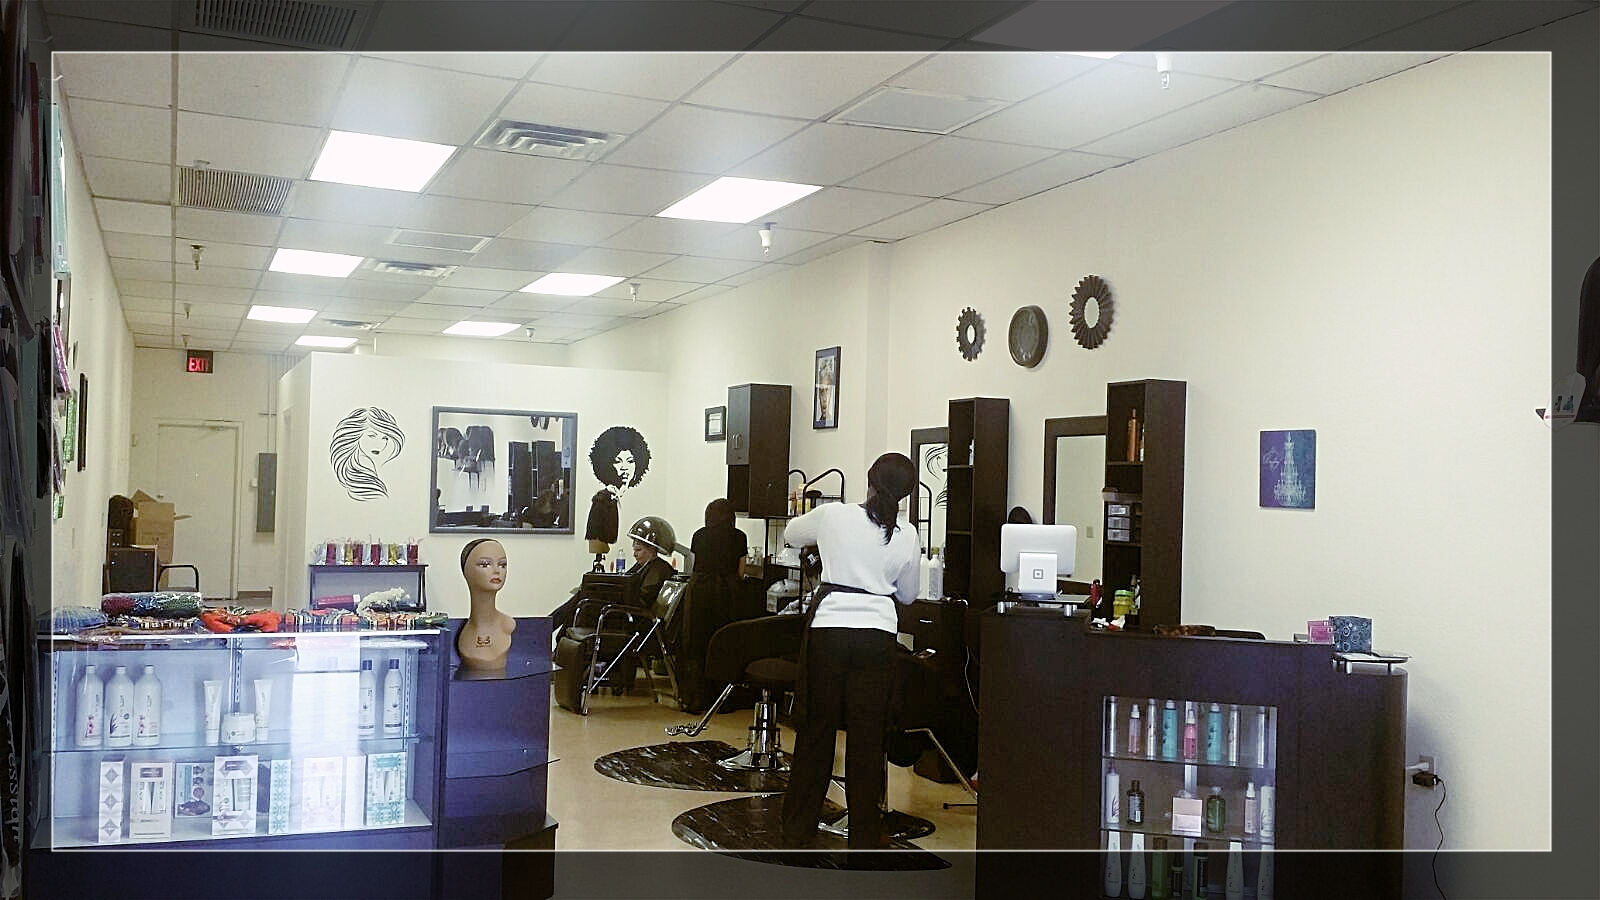
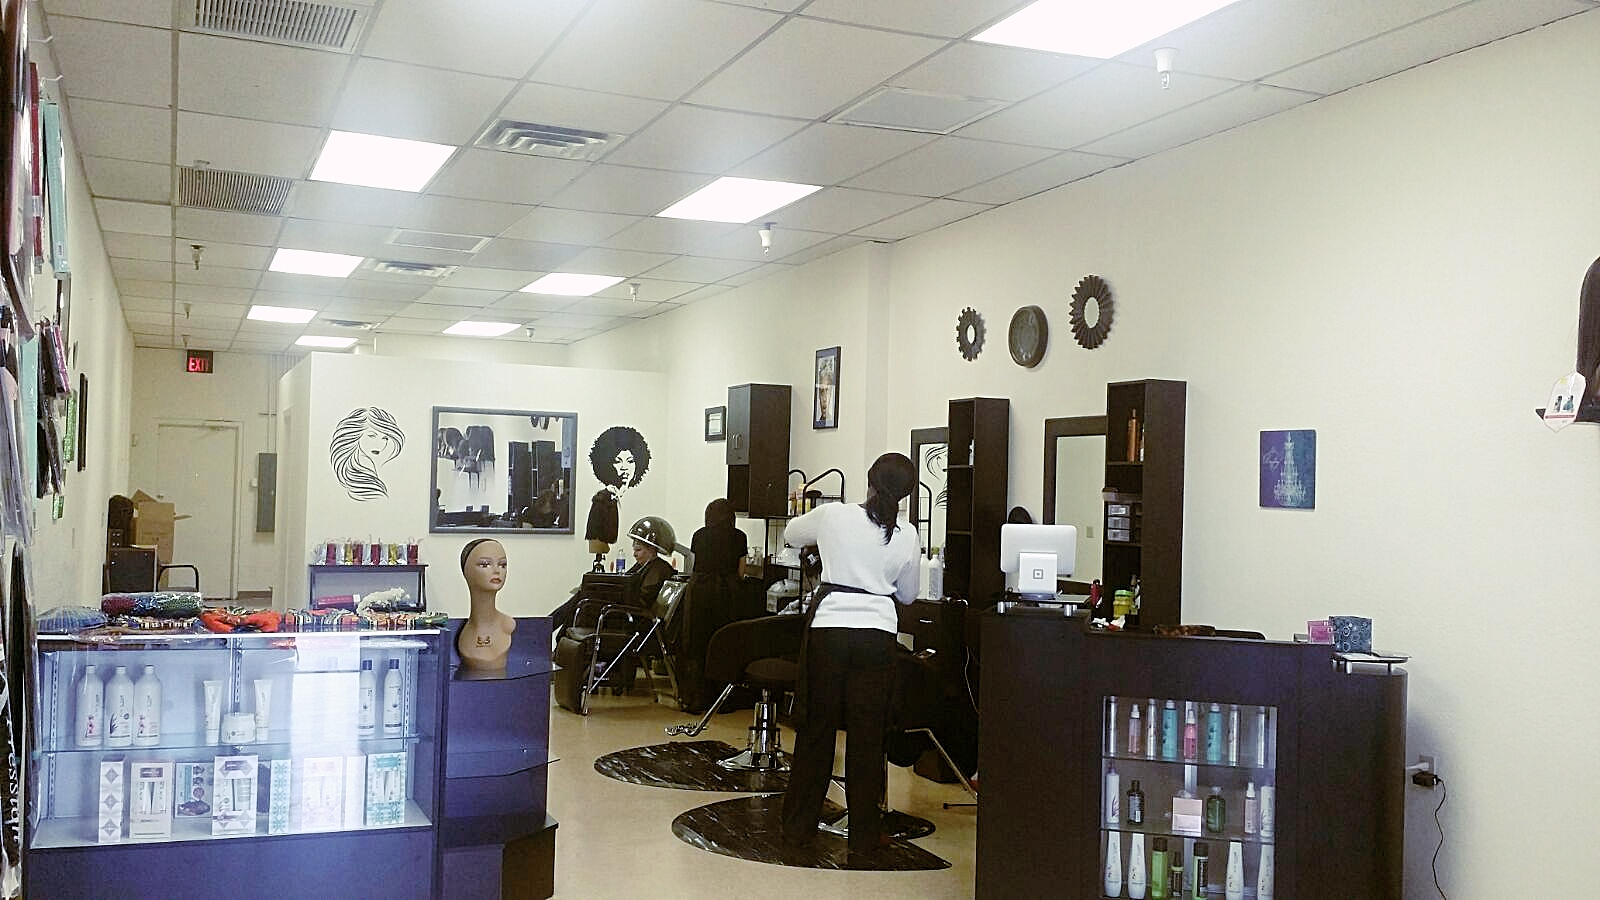
update

Changed region(s): [[0.0, 0.0, 1.0, 1.0]]

diff --git a/brainding.html b/brainding.html
@@ -147,19 +147,20 @@
 
             
             <div class="col-4">
-                  <img src="images/Braids2.JPG" class="rounded pull-left" alt="Profile Picture" height=300 width=300>
+                        
+                  <img src="images/Braids2.JPG" class="rounded pull-left" alt="Profile Picture" style="border:5px dotted rgb(190, 15, 103);" height=300 width=300>
             </div>
             <div class="col-4">
-                  <img src="images/Twist hairstyle.jpeg" class="rounded pull-left" alt="Profile Picture" height=300 width=300>
+                  <img src="images/Twist hairstyle.jpeg" class="rounded pull-left" alt="Profile Picture"style="border:5px dotted rgb(190, 15, 103);"  height=300 width=300>
             </div>
             <div class="col-4">
-                  <img src="images/Braids.jpg" class="rounded pull-left" alt="Profile Picture" height=300 width=300>
+                  <img src="images/Braids.jpg" class="rounded pull-left" alt="Profile Picture" style="border:5px dotted rgb(190, 15, 103);" eight=300 width=300>
             </div>
             <div class="col-4">
-                  <img src="images/Braids2a.JPG" class="rounded pull-left" alt="Profile Picture" height=300 width=300>
+                  <img src="images/Braids2a.JPG" class="rounded pull-left" alt="Profile Picture" style="border:5px dotted rgb(190, 15, 103);" height=300 width=300>
             </div>
             <div class="col-4">
-                  <img src="images/Conrow.jpg" class="rounded pull-left" alt="Profile Picture" height=300 width=300>
+                  <img src="images/Conrow.jpg" class="rounded pull-left" alt="Profile Picture" style="border:5px dotted rgb(190, 15, 103);" height=300 width=300>
             </div>
             <br>
 

diff --git a/wigs.html b/wigs.html
@@ -146,17 +146,17 @@
       <div class="row">
 
             <div class="col-4">
-                  <img src="images/wig1.JPG" class="rounded pull-left" alt="Profile Picture" height=300 width=300>
+                  <img src="images/wig1.JPG" class="rounded pull-left" alt="Profile Picture" style="border:5px dotted rgb(190, 15, 103);" height=300 width=300>
 
 
             </div>
             <div class="col-4">
-                        <img src="images/wig2.JPG" class="rounded pull-left" alt="Profile Picture" height=300 width=300 >
+                        <img src="images/wig2.JPG" class="rounded pull-left" alt="Profile Picture"  style="border:5px dotted rgb(190, 15, 103);" height=300 width=300 >
 
 
             </div>
             <div class="col-4">
-                        <img src="images/wig3.JPG" class="rounded pull-left" alt="Profile Picture"height=300 width=300 >
+                        <img src="images/wig3.JPG" class="rounded pull-left" alt="Profile Picture" style="border:5px dotted rgb(190, 15, 103);" height=300 width=300 >
 
 
             </div>
@@ -169,7 +169,7 @@
 
                   <div class="col-4">
                         
-                              <img src="images/All-wigs.JPG" alt="Wigs" class="rounded-circle"height=500 width=500>
+                              <img src="images/All-wigs.JPG" alt="Wigs" class="rounded-circle" style="border:5px dashed rgb(190, 15, 103);"height=500 width=500>
                        
       
       

diff --git a/home.html b/home.html
@@ -16,6 +16,7 @@
             crossorigin="anonymous"></script>
       <script src="https://maxcdn.bootstrapcdn.com/bootstrap/4.0.0/js/bootstrap.min.js" integrity="sha384-JZR6Spejh4U02d8jOt6vLEHfe/JQGiRRSQQxSfFWpi1MquVdAyjUar5+76PVCmYl"
             crossorigin="anonymous"></script>
+            <link href="https://fonts.googleapis.com/css?family=Niconne" rel="stylesheet">
 </head>
 
 <body>
@@ -143,11 +144,12 @@
       </nav>
 
       <br>
-
+<div id="salon-picture">
       <div class="row">
             <div class="col-4">
-                  <div class="card" style="width: 25rem;">
-                        <img src="images/Inside Salon_Fotor.jpg" center="center" height=700 width=1200>
+                  <div class="" style="width: 25rem;">
+                              <img src="images/Inside Salon_Fotor.jpg" style="border-bottom:20px dotted rgb(190, 15, 103); border-top:20px dotted rgb(190, 15, 103); border-right:5px solid  rgb(190, 15, 103); border-left:5px solid   rgb(190, 15, 103);" height=700; width:1200;> 
+
 
 
                   </div>
@@ -157,6 +159,7 @@
 
 
       </div>
+</div>
     <!--  <div class="row">
             <div class="col-4">
                   <div class="card" style="width: 25rem;">

diff --git a/crochet.html b/crochet.html
@@ -146,13 +146,13 @@
       <div class="row">
 
             <div class="col-4">
-                  <img src="images/image1.jpg" class="rounded pull-left" alt="Profile Picture" height=300 width=300>
+                  <img src="images/image1.jpg" class="rounded pull-left" alt="Profile Picture" style="border:5px dashed rgb(190, 15, 103);" height=300 width=300>
             </div>
             <div class="col-4">
-                  <img src="http://via.placeholder.com/300x300" class="rounded pull-left" alt="Profile Picture" height=300 width=300>
+                  <img src="http://via.placeholder.com/300x300" class="rounded pull-left" alt="Profile Picture" style="border:5px dashed rgb(190, 15, 103);"height=300 width=300>
             </div>
             <div class="col-4">
-                  <img src="http://via.placeholder.com/300x300" class="rounded pull-left" alt="Profile Picture" height=300 width=300>
+                  <img src="http://via.placeholder.com/300x300" class="rounded pull-left" alt="Profile Picture" style="border:5px dashed rgb(190, 15, 103);"height=300 width=300>
             </div>
             <br>
 

diff --git a/hair-color-and-highlights.html b/hair-color-and-highlights.html
@@ -146,17 +146,17 @@
       <div class="row">
 
             <div class="col-4">
-                  <img src="images/Highlights.jpg" class="rounded pull-left" alt="Profile Picture" height=300 width=300>
+                  <img src="images/Highlights.jpg" class="rounded pull-left" alt="Profile Picture" style="border:5px double rgb(190, 15, 103);" height=300 width=300>
 
 
             </div>
             <div class="col-4">
-                        <img src="images/Highlights 2.jpg" class="rounded pull-left" alt="Profile Picture" height=300 width=300>
+                        <img src="images/Highlights 2.jpg" class="rounded pull-left" alt="Profile Picture" style="border:5px double rgb(190, 15, 103);" height=300 width=300>
 
 
             </div>
             <div class="col-4">
-                        <img src="images/haircolor.JPG" class="rounded pull-left" alt="Profile Picture" height=300 width=300>
+                        <img src="images/haircolor.JPG" class="rounded pull-left" alt="Profile Picture" style="border:5px double rgb(190, 15, 103);" height=300 width=300>
 
 
             </div>

diff --git a/hair-extension.html b/hair-extension.html
@@ -146,10 +146,10 @@
       <div class="row">
 
             <div class="col-4">
-                  <img src="images/crochet1.JPG" class="rounded pull-left" alt="Profile Picture" height=300 width=300>
+                  <img src="images/crochet1.JPG" class="rounded pull-left" alt="Profile Picture" style="border:5px dotted rgb(190, 15, 103);" height=300 width=300>
             </div>
             <div class="col-4">
-                  <img src="images/crochet1a.JPG" class="rounded pull-left" alt="Profile Picture" height=300 width=300>
+                  <img src="images/crochet1a.JPG" class="rounded pull-left" alt="Profile Picture" style="border:5px dotted rgb(190, 15, 103);" height=300 width=300>
             </div>
             <div class="col-4">
                   <img src="http://via.placeholder.com/200x200" class="rounded pull-left" alt="Profile Picture" height=300 width=300>

diff --git a/style.css b/style.css
@@ -1,6 +1,6 @@
 body {
  background-image: url(images/background-body.JPG);
-      font-family: 'Quicksand', sans-serif;
+ font-family: 'Cinzel Decorative', cursive;
   }
 
   #hair-body{
@@ -81,10 +81,18 @@ body {
       margin-left: 50px;
   }
 
+  #salon-picture{
+      margin-top: 0px;
+      margin-left: 250px;    
+      margin-right: 150px; 
+      margin-bottom: 100px;
+  }
+
 #styles {
       margin-top: 50px;
       margin-left: 50px;
 }
+
   #perming {
       margin-top: 50px;
       margin-left: 50px; 

diff --git a/index.html b/index.html
@@ -16,6 +16,7 @@
             crossorigin="anonymous"></script>
       <script src="https://maxcdn.bootstrapcdn.com/bootstrap/4.0.0/js/bootstrap.min.js" integrity="sha384-JZR6Spejh4U02d8jOt6vLEHfe/JQGiRRSQQxSfFWpi1MquVdAyjUar5+76PVCmYl"
             crossorigin="anonymous"></script>
+            <link href="https://fonts.googleapis.com/css?family=Niconne" rel="stylesheet">
 </head>
 
 <body>
